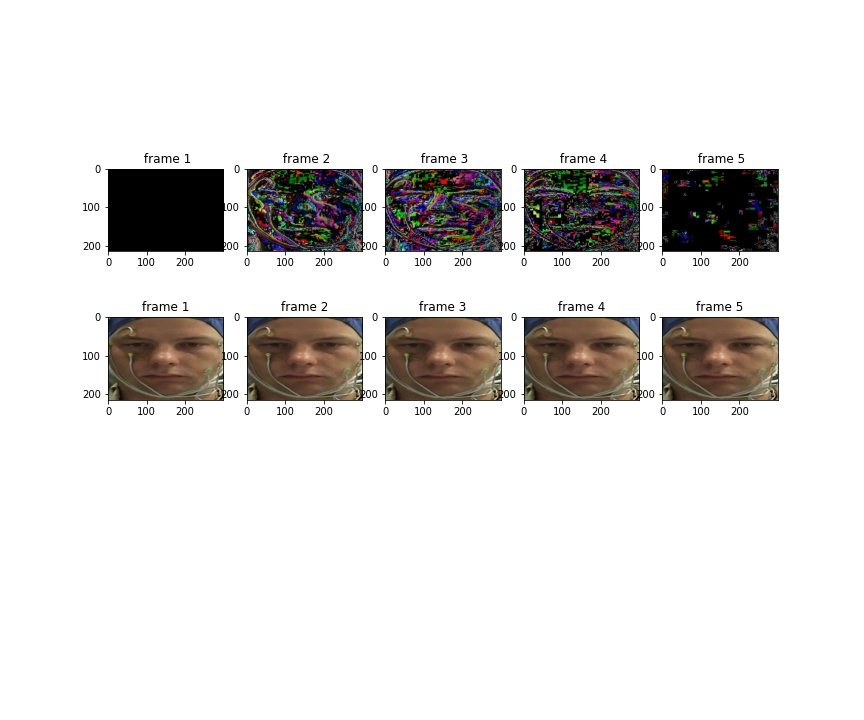
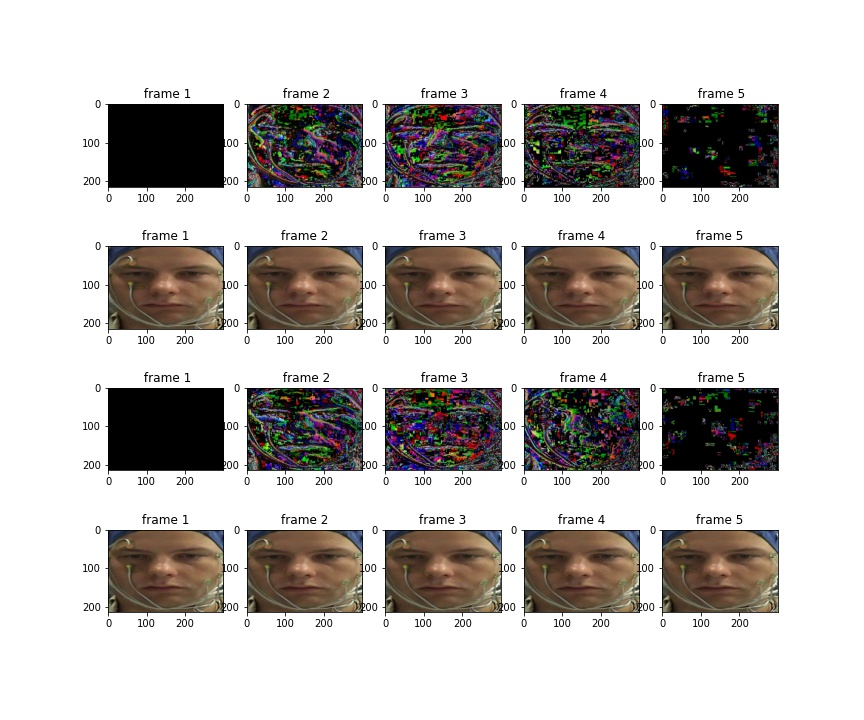
TFRHandler and test_tfr.py updated to produce the output as needed . Use flag to_view in tfReader.getBatch()

diff --git a/modules/tfrecordhandler.py b/modules/tfrecordhandler.py
@@ -172,12 +172,11 @@ class TFRWriter():
 
 class TFRReader():
     
-    def __init__(self, batch_size, sequence_length, num_epochs):
+    def __init__(self, batch_size, sequence_length):
         self.batch_size = batch_size
-        self.num_epochs = num_epochs
         self.sequence_length = sequence_length
 
-    def rotate_sequence(self, image, label, im_name, frames):
+    def rotateSequence(self, image, label, im_name, frames):
         rot_angle = tf.random_uniform([], minval=0, maxval=360, dtype=tf.float32)
         
         for i in range(self.sequence_length):
@@ -185,7 +184,7 @@ class TFRReader():
 
         return image, label, im_name, frames
 
-    def parse_sequence(self, sequence_example):
+    def parseExampleToView(self, sequence_example):
         
         sequence_features = {'Motion': tf.io.FixedLenSequenceFeature([], dtype=tf.string),
                              'Appearance': tf.io.FixedLenSequenceFeature([], dtype=tf.string),
@@ -208,23 +207,58 @@ class TFRReader():
         im_name = context['name']
         frames = context['frames']
 
-        # encode image
+        # decode image
         motion_image = tf.io.decode_raw(sequence['Motion'], tf.uint8)
         motion_image = tf.reshape(motion_image, shape=(seq_length, im_height, im_width, im_depth))
-        motion_image = tf.cast(motion_image, tf.uint8)
         
-        appearance_image = tf.io.decode_raw(sequence['Appearance'], tf.uint8,little_endian=False)
+        appearance_image = tf.io.decode_raw(sequence['Appearance'], tf.uint8)
         appearance_image = tf.reshape(appearance_image, shape=(seq_length, im_height, im_width, im_depth))
         
         label = tf.cast(sequence['Labels'], dtype = tf.int32)
+        
+        return (motion_image, appearance_image), label, im_name, frames
+    
+    def parseExample(self, sequence_example):
+        
+        sequence_features = {'Motion': tf.io.FixedLenSequenceFeature([], dtype=tf.string),
+                             'Appearance': tf.io.FixedLenSequenceFeature([], dtype=tf.string),
+                          'Labels': tf.io.FixedLenSequenceFeature([], dtype=tf.float32)}
 
-        return motion_image, appearance_image, label, im_name, frames
+        context_features = {'length': tf.io.FixedLenFeature([], dtype=tf.int64),
+                         'height': tf.io.FixedLenFeature([], dtype=tf.int64),
+                         'width': tf.io.FixedLenFeature([], dtype=tf.int64),
+                         'depth': tf.io.FixedLenFeature([], dtype=tf.int64),
+                           'name': tf.io.FixedLenFeature([], dtype=tf.string),
+                            'frames': tf.io.FixedLenFeature([], dtype=tf.string)}
+        context, sequence = tf.io.parse_single_sequence_example(
+            sequence_example, context_features=context_features, sequence_features=sequence_features)
 
-    def read_batch(self, filename, train):
+        # get features context
+        seq_length = tf.cast(context['length'], dtype = tf.int32)
+        im_height = tf.cast(context['height'], dtype = tf.int32)
+        im_width = tf.cast(context['width'], dtype = tf.int32)
+        im_depth = tf.cast(context['depth'], dtype = tf.int32)
+
+
+        # decode image
+        motion_image = tf.io.decode_raw(sequence['Motion'], tf.uint8)
+        motion_image = tf.reshape(motion_image, shape=(seq_length, im_height, im_width, im_depth))
+        
+        appearance_image = tf.io.decode_raw(sequence['Appearance'], tf.uint8)
+        appearance_image = tf.reshape(appearance_image, shape=(seq_length, im_height, im_width, im_depth))
+        
+        label = tf.cast(sequence['Labels'], dtype = tf.int32)
+        
+        return (motion_image, appearance_image), (label)
+
+    def getBatch(self, filename, to_view = False, rotate=0):
         dataset = tf.data.TFRecordDataset(filename)
         dataset = dataset.repeat()
-        dataset = dataset.map(self.parse_sequence, num_parallel_calls=2)
-        #if train == 1:
+        if to_view == True:            
+            dataset = dataset.map(self.parseExampleToView, num_parallel_calls=2)
+        else:
+            dataset = dataset.map(self.parseExample, num_parallel_calls=2)
+        #if rotate == 1:
          #   dataset = dataset.map(self.rotate_sequence, num_parallel_calls=2)
         dataset = dataset.batch(self.batch_size)
 

diff --git a/test_tfr.py b/test_tfr.py
@@ -7,9 +7,7 @@ Created on Mon Nov 29 14:24:53 2021
 """
 
 import os
-import numpy as np
 import pathlib
-import cv2
 import tensorflow as tf
 import matplotlib.pyplot as plt
 from modules.tfrecordhandler import TFRWriter
@@ -24,10 +22,10 @@ if __name__ == '__main__':
     parser.add_argument("-bs", "--batch_size", required = True , help = "Desired batch size")
     args = vars(parser.parse_args())
     
-    in_data = [args['in_data']]
-
+    in_data = (args['in_data'])
+    in_data = in_data.split(',')
+    
     roi_path = pathlib.Path(os.path.join(os.path.dirname(os.getcwd()),'Dataset','Roi'))               
-
     nd_path = pathlib.Path(os.path.join(os.path.dirname(os.getcwd()),'Dataset','Nd'))
     labels_path =  pathlib.Path(os.path.join(os.path.dirname(os.getcwd()),'Labels'))
         
@@ -36,6 +34,13 @@ if __name__ == '__main__':
     
     tfrecord_path= pathlib.Path(os.path.join(os.path.dirname(os.getcwd()),'Dataset' , 'TFRecords'))
     tfrecord_path.mkdir(parents=True,exist_ok=True)
+    
+    for label_file in os.listdir(labels_path):
+        trial_num = label_file.split('trial')[-1].split('.')[0]
+        if len(trial_num)==1 :
+            new_name = label_file.split('trial')[0]+'trial'+'0'+trial_num+'.dat'
+            print(new_name)
+            os.rename(os.path.join(labels_path,label_file),os.path.join(labels_path,new_name))
     
     tfwrite = TFRWriter()
     roi = tfwrite.makeFiletxt(roi_path,nd_path, in_data,labels_path,txt_files_path) ## roi and nd together
@@ -58,16 +63,14 @@ if __name__ == '__main__':
         AUTOTUNE = tf.data.experimental.AUTOTUNE 
 
     tfwrite.getTFRecords(roi_path,nd_path, txt_files_path, tfrecord_path, file_list, batch_size,'example')
-
     tfrpath = os.path.join(tfrecord_path,'example.tfrecord')
     # make a dataset iterator
-    data = TFRReader(batch_size, timesteps, num_epochs=10)
-    batch = data.read_batch(tfrpath, 0)
+    data = TFRReader(batch_size, timesteps)
+    batch = data.getBatch(tfrpath, True, 0)
 
 
-    for x_l,x_r,y,name,frame in batch.take(1):    
-        print('Appeareance Input Shape:',x_r.shape)
-        
+    for (x_l,x_r),y, name, frame in batch.take(1):    
+        print('Appeareance Input Shape:',x_r.shape)      
         print('Motion Input Shape',x_l.shape)
         print('Output',y.shape)
         print('Video name:',name.numpy())
@@ -79,16 +82,23 @@ if __name__ == '__main__':
         fig = plt.figure(figsize=(12,10))
     
         idx = 1
+        n_rows = batch_size*2
         for i in range(0, batch_size):
+            
+            print('Displaying Video {}'.format(name.numpy()[i]))
             print('Displaying frames {}'.format(frames))
-            for j in range(0, timesteps):
-                # Display the frames along with the label by looking up the dictionary key
-                ax = fig.add_subplot(batch_size, timesteps, idx)
-                ax.set_title("frame {}".format(j+1))
-                ax.imshow(x_r.numpy()[i, j, : ,: ,:])
-                ax = fig.add_subplot(batch_size+1, timesteps, idx)
-                ax.set_title(" frame {}".format(j+1))
+            
+            for j in range(0, timesteps):    
+                ax = fig.add_subplot(n_rows, timesteps, idx)
+                ax.set_title(" frame {}".format(frames[j]))
                 ax.imshow(x_l.numpy()[i, j, : ,: ,:])
                 idx += 1
+           
+            for k in range(0,timesteps):
+                ax = fig.add_subplot(n_rows, timesteps, idx)
+                ax.set_title("frame {}".format(frames[k]))
+                ax.imshow(x_r.numpy()[i, k, : ,: ,:])
+                idx+=1
+                
         plt.savefig('Sample_inputs.jpg')
 

diff --git a/prepare_data.py b/prepare_data.py
@@ -25,6 +25,7 @@ def getSets( motion_path, subset=0.01 , val_split=0.1, test_split=0.2):
     train_set, val_set, test_set = vdh.splitData(in_data,val_split, test_split)  
     return train_set, val_set, test_set 
 
+
 def getDataset(roi_path,nd_path,in_data,labels_path,txt_files_path):
     
     tfwrite = TFRWriter()

diff --git a/Readme.md b/Readme.md
@@ -11,11 +11,16 @@ python preprocess_data.py -ds "path_to_Video Directory organized by subject" -lp
 ```
 ## Update details
 
-Modules Updated: Model, Preprocessor, VideoDatasetHandler
-Script added: test_datasethandler.py
+Modules Updated: tfrecordhandler
+This module has all the tools and methods needed to write a TF Record file for an image sequence producing a TF Dataset Batch dataset object of (batch_size, timesteps, img_hieght, img_width, img_dept).
+This can be used to train the ConvLSTM.
+
+Script added: test_tfr.py
+
+This scrip can be used as reference for usage of TFRHandler Class.
 
 ```shell
-python test_datagen.py -m "FaceTrack_rPPG/DeepPhys" -id " list of input videos" -bs "batch_size"
+python test_tfr.py -id " input video1,input_video2" -bs "batch_size"
 
 ```
 Model can be built, trained and tested using the build_train_model.py 
@@ -24,3 +29,4 @@ Model can be built, trained and tested using the build_train_model.py
 python build_train_model.py -m "FaceTrack_rPPG/DeepPhys" -ap " path to frame extracted roi directory" -mp "path to frame extracted ND directory" -lp "path tp labels by video directory"
 
 ```
+Note: Data handling for Deep Phys is till being designed as the python generator causes memeory leaks and results in the process being killed 
